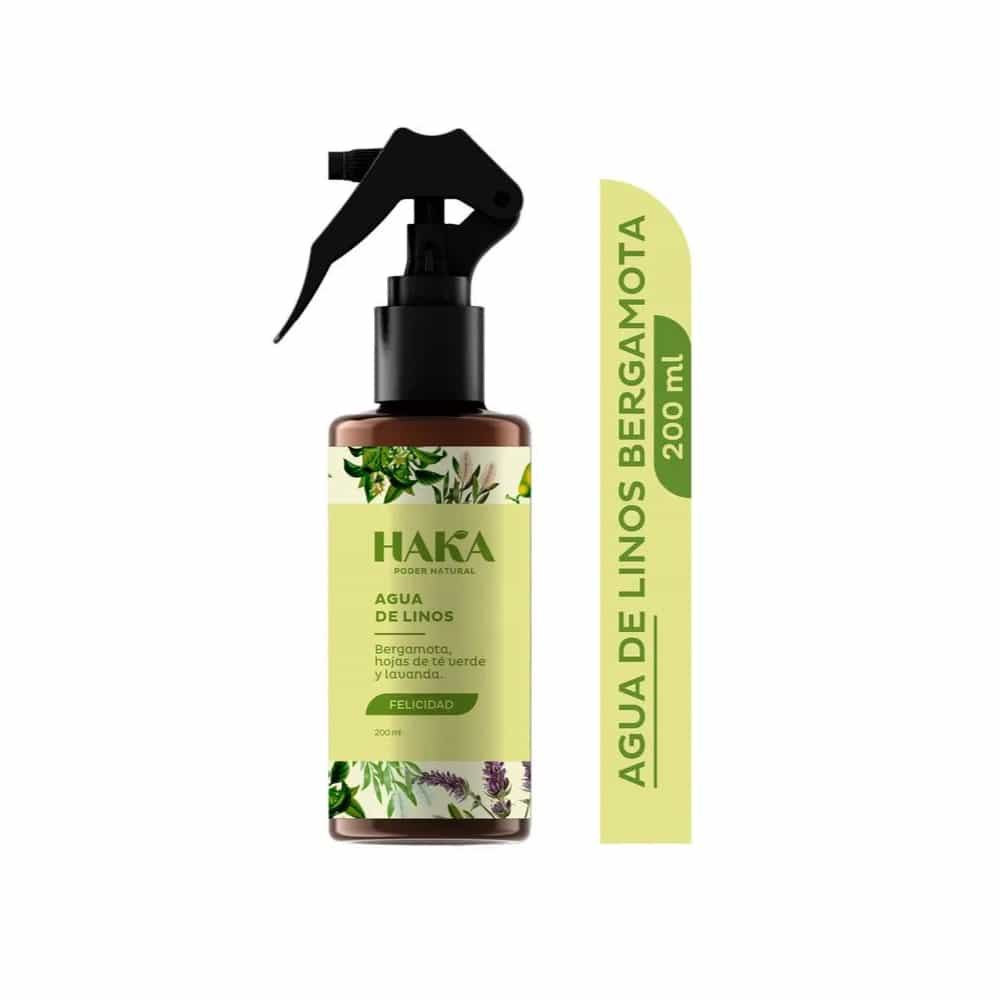
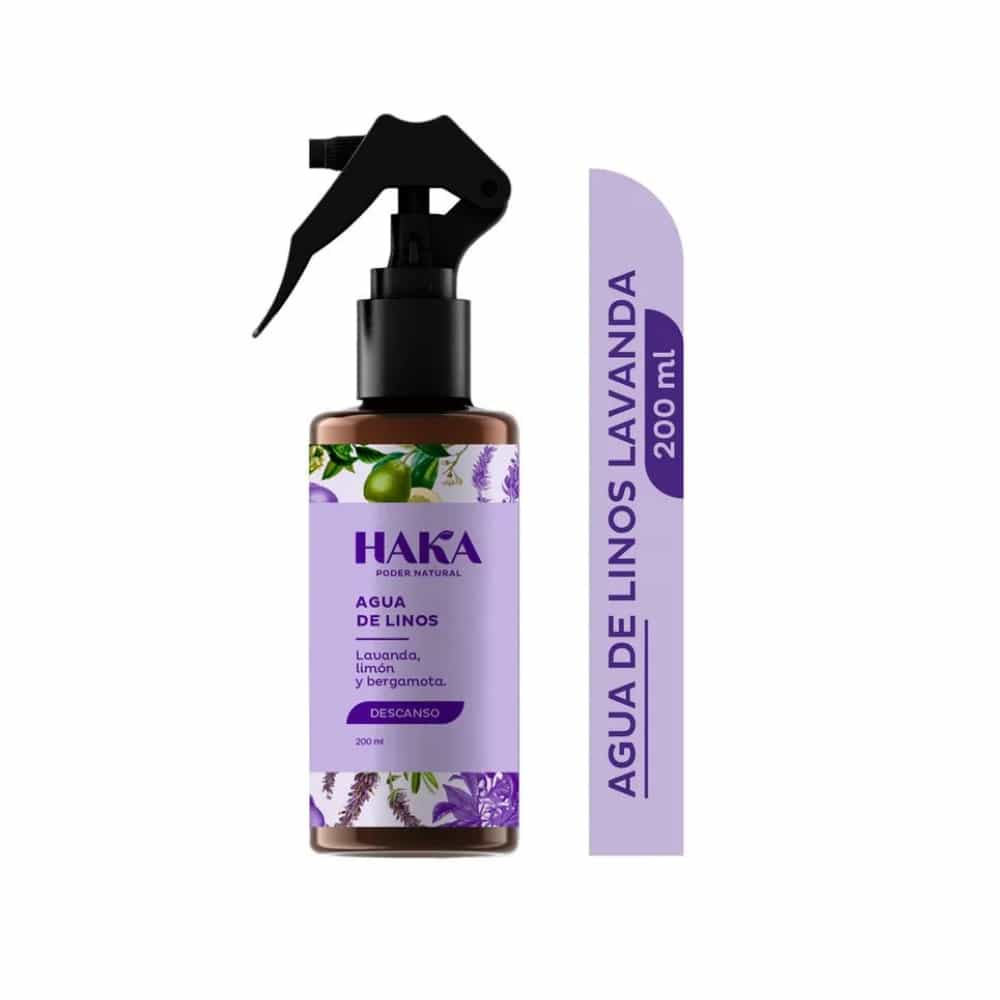
fix: cada Agua de Linos Haka muestra el frasco de su propio aroma
Las dos fotos que se bajaron por codigo SAP quedaban cruzadas: la tarjeta de
Descanso ensenaba el frasco verde rotulado FELICIDAD y la de Felicidad el
morado rotulado DESCANSO.

El origen es que tiendanutresaencasa.com y el deck "MASIVO 1.0" no coinciden
en estos dos codigos: la tienda publica el SAP 2020875 como Felicidad y el
2020873 como Descanso, y el deck justo al reves. Como la foto se descarga
cruzando por SAP, vino la del aroma contrario en las dos.

Se intercambiaron los dos archivos para que el rotulo del empaque coincida con
el nombre de la tarjeta. Los nombres del catalogo NO se tocaron: mandan ellos,
y cual de las dos fuentes tiene mal el codigo lo confirma el asesor comercial.
Queda anotado junto a las dos referencias en productos.ts para que nadie las
vuelva a bajar sin mirarlas.

Verificado con astro check (0 errores), npm run build y Playwright en 1440x900
y 390x844: las tres Agua de Linos cargan su foto, sin 404 ni errores de
consola.

Claude-Session: https://claude.ai/code/session_01F4xujXKfE67qN4m2CjojRL

Changed region(s): [[0.248, 0.093, 0.558, 0.868], [0.589, 0.155, 0.713, 0.868]]

diff --git a/src/data/productos.ts b/src/data/productos.ts
@@ -461,6 +461,16 @@ export const productos: Producto[] = [
   { id: "gol-gol-mini-plegadiza-x-24-14-g", marca: "Gol", categoria: "Galletas", subcategoria: "Dulces", nombre: "Gol Mini (plegadiza x 24)", presentacion: "14 g", codigo: "1068250", codigoParcial: false, embalaje: "Plegadiza x 24", paginaPdf: 364, imagen: "1068250.jpg" },
   { id: "haka-haka-aceite-esencial-eucalipto-aire-puro-10-ml", marca: "Haka", categoria: "Bienestar y cuidado personal", subcategoria: "Aromaterapia y esencias florales", nombre: "Haka Aceite Esencial Eucalipto (Aire Puro)", presentacion: "10 ml", codigo: "1065842", codigoParcial: false, embalaje: "", paginaPdf: 152, imagen: "1065842.png" },
   { id: "haka-haka-agua-de-linos-aire-puro-eucalipto-menta-y-lavanda-200-ml", marca: "Haka", categoria: "Bienestar y cuidado personal", subcategoria: "Aromaterapia y esencias florales", nombre: "Haka Agua de Linos Aire Puro (eucalipto, menta y lavanda)", presentacion: "200 ml", codigo: "2020874", codigoParcial: false, embalaje: "", paginaPdf: 153, imagen: "2020874.jpg" },
+  // HAKA AGUA DE LINOS: las dos fotos van CRUZADAS respecto a la tienda.
+  // tiendanutresaencasa.com publica el SAP 2020875 como "Felicidad" y el
+  // 2020873 como "Descanso", justo al revés que este catálogo. Se descargaron
+  // por código SAP y quedaban con el frasco del aroma contrario: la tarjeta de
+  // Descanso enseñaba el frasco verde rotulado FELICIDAD y viceversa.
+  // Los archivos se intercambiaron a mano para que cada tarjeta muestre el
+  // empaque cuyo rótulo coincide con su nombre -2020873.jpg es el frasco verde
+  // de Felicidad y 2020875.jpg el morado de Descanso-. Los nombres del deck se
+  // dejaron intactos; cuál de las dos fuentes tiene mal el código lo confirma
+  // el asesor comercial. NO volver a bajar estas dos fotos sin revisarlas.
   { id: "haka-haka-agua-de-linos-descanso-lavanda-te-verde-y-bergamota-200-ml", marca: "Haka", categoria: "Bienestar y cuidado personal", subcategoria: "Aromaterapia y esencias florales", nombre: "Haka Agua de Linos Descanso (lavanda, té verde y bergamota)", presentacion: "200 ml", codigo: "2020875", codigoParcial: false, embalaje: "", paginaPdf: 153, imagen: "2020875.jpg" },
   { id: "haka-haka-agua-de-linos-felicidad-bergamota-te-verde-y-lavanda-200-ml", marca: "Haka", categoria: "Bienestar y cuidado personal", subcategoria: "Aromaterapia y esencias florales", nombre: "Haka Agua de Linos Felicidad (bergamota, té verde y lavanda)", presentacion: "200 ml", codigo: "2020873", codigoParcial: false, embalaje: "", paginaPdf: 153, imagen: "2020873.jpg" },
   { id: "haka-cocoa-melena-de-leon-haka-120-g", marca: "Haka", categoria: "Bienestar y cuidado personal", subcategoria: "Suplementos y vitaminas", nombre: "Cocoa Melena de León Haka", presentacion: "120 g", codigo: "1082933", codigoParcial: false, precio: 39990, embalaje: "Corrugado x 9", paginaPdf: 110, imagen: "1082933.png" },
